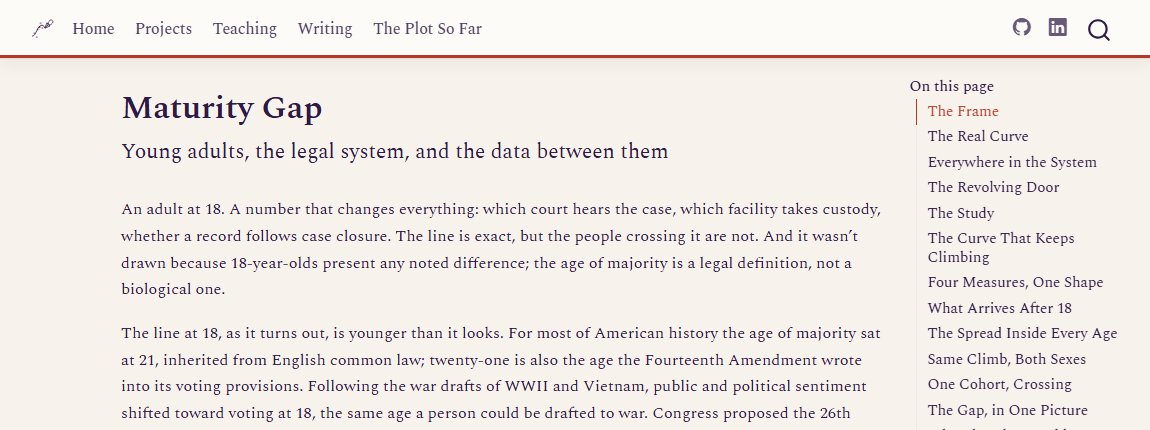
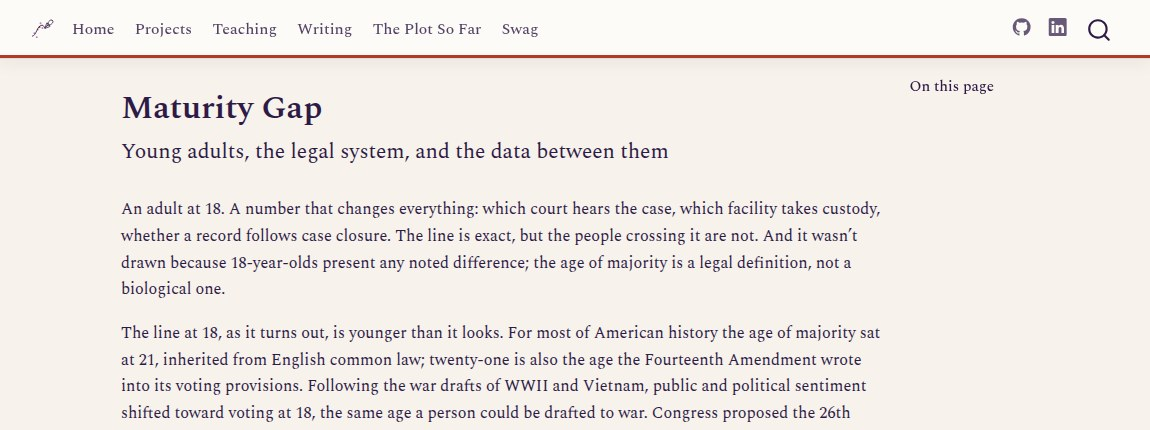
Projects: picked copy, thumbnails, phone card text; chart titles wrap on phones
- Projects page: picked subtitle, Maturity Gap and compassionate release
  card copy, "and" in the topic chips, and a pointer to Writing's In the
  Works in place of "More projects in progress."; header thumbnails on all
  three cards (new thumb-compassionaterelease, thumb-maturitygap retaken
  with the current navbar); card links use .project-card-cta instead of
  inline styles and a <br> spacer.
- Card descriptions step up to 0.9rem below 700px wide, sitewide.
- Maturity Gap and A Right That Exists on Paper: ggplotly_titled() now
  wraps each folded title and subtitle to the chart's width, anchors it to
  the whole chart instead of the plotting area, and grows the top margin
  and chart height together. On a phone every exhibit title ran off its
  card and was cropped; a few long ones clipped at desktop width too.

Claude-Session: https://claude.ai/code/session_011GshRK3Uo6b5yy7E5VRiQL

diff --git a/site-theme.scss b/site-theme.scss
@@ -389,12 +389,22 @@ h2.section-heading[data-eyebrow]::before {
   margin-top: 0.5rem;
   color: $muted-ink;
 }
+/* Where a chip row sits above the call to action (Projects), give the link
+   the gap a <br> used to fake. */
+.project-card-meta + .project-card-cta {
+  display: inline-block;
+  margin-top: 1rem;
+}
 
 .project-card-desc {
   font-size: 0.75rem;
   color: #574B62;
   line-height: 1.6;
   margin-bottom: 1rem;
+}
+/* 0.75rem is about 12px, too small for a four-line paragraph on a phone. */
+@media (max-width: 700px) {
+  .project-card-desc { font-size: 0.9rem; }
 }
 
 .project-card-meta {

diff --git a/CLAUDE.md b/CLAUDE.md
@@ -875,6 +875,17 @@ that the whole group is imaginary.
   the last one, so `projects/index.qmd` has three live cards (the periodic
   table, Maturity Gap, and the compassionate release story; an earlier note
   here said four, which was never true on main).
+  **Projects refinement (2026-09-30, every string maintainer-picked):** new
+  subtitle ("...each built around a real measurement question; the exercises
+  and planning tools live on the Teaching page"), tightened Maturity Gap and
+  compassionate release card descriptions (both claims checked against their
+  pages), chips say "and" not "&" (the area-label rule, applied to chips), and
+  "More projects in progress." became "Work in progress is listed on the
+  Writing page." linking `#in-the-works`. All three cards carry header
+  thumbnails (`thumb-periodic`, `thumb-maturitygap` retaken with the current
+  navbar, new `thumb-compassionaterelease`), links use `.project-card-cta`,
+  and `.project-card-meta + .project-card-cta` replaces the old `<br>` spacer.
+  `.project-card-desc` steps up from 0.75rem to 0.9rem below 700px, sitewide.
 - **A Right That Exists on Paper (`compassionaterelease/`; shipped 2026-07-19
   in #74, review pass 2026-07-19, sources-and-voice pass 2026-07-21).** Chart-forward data story on compassionate
   release, the qualitative-data sibling of Maturity Gap on the same machinery:
@@ -1049,7 +1060,21 @@ that the whole group is imaginary.
   `htmlwidgets::onRender` ResizeObserver calling `Plotly.Plots.resize`:
   plotly draws at a fixed 700px when its container has no width at draw time
   (a background tab), never re-draws without a window resize, and the
-  `.chart-card` overflow: hidden then crops the right edge. The sources
+  `.chart-card` overflow: hidden then crops the right edge.
+  Since 2026-09-30 the same `onRender` also runs `fit()`: plotly never wraps
+  a title, and ggplotly anchors it to the plotting area (`xref: paper`, after
+  the y-axis label margin), so on a phone every folded title and subtitle ran
+  100-550px off the card and was cropped ("Old enough at"), and a few long
+  ones clipped at desktop width too. `fit()` anchors the title to the whole
+  chart (`xref`/`yref: container`), wraps title and subtitle to the chart's
+  width with canvas text measurement, then measures the drawn title and grows
+  `margin.t` and the chart's height together so the plot keeps its height.
+  It only acts on titles of the exact `<b>...</b><br><sup>...</sup>` shape
+  the helper builds. Verify it without R by injecting the JS into the
+  published `gh-pages` pages (`git fetch origin gh-pages`, open the files via
+  `file://`; datawithaplot.org itself is egress-blocked in CCR, and the proxy
+  answers localhost with 405) and checking every `.gtitle` box sits inside its
+  `.chart-card`. The sources
   section is headed "Data Sources" (renamed from "Where the Numbers Come
   From" 2026-07-21, matching compassionaterelease). Voice of
   the craft notes, maintainer-calibrated 2026-07-18: "measured with one
